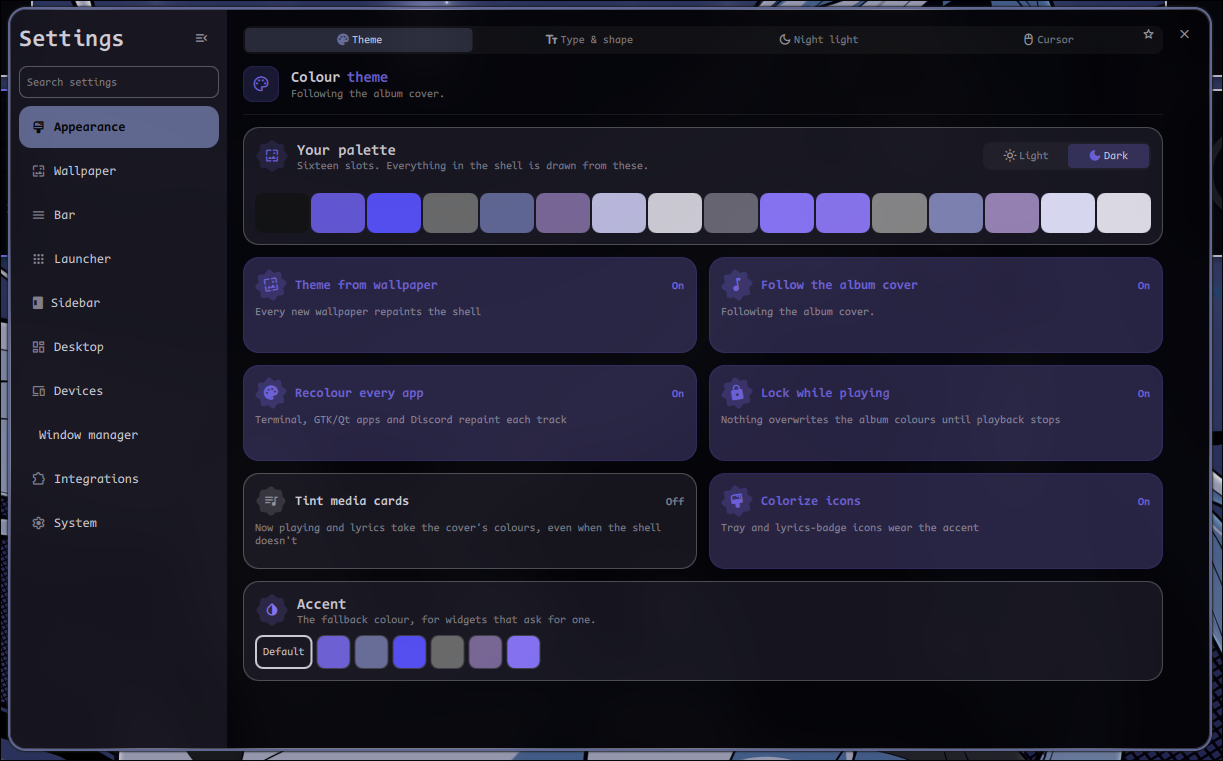
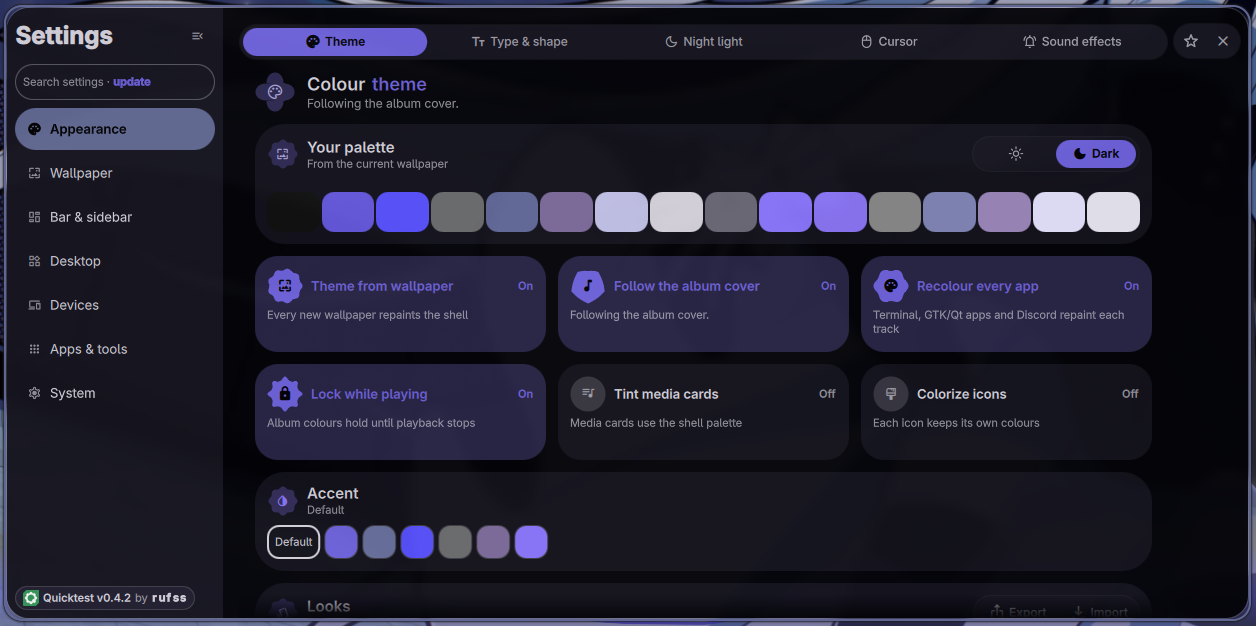
README: new sidebar section, retaken Settings and overview previews

diff --git a/README.md b/README.md
@@ -93,7 +93,9 @@ equalizer, updates, notifications, clipboard, timer, to‑do, system stats, and 
 
 ### The sidebar and dock
 
-<img align="right" width="44" src="assets/previews/SideBarPreview.png" alt="The sidebar">
+<table>
+<tr>
+<td valign="middle">
 
 The second edge, arranged like the bar. It can auto-hide and dodge windows.
 
@@ -105,7 +107,10 @@ The second edge, arranged like the bar. It can auto-hide and dodge windows.
 
 SUPER+D reveals it while hidden; SUPER+SHIFT+D hides or shows it entirely.
 
-<br clear="right">
+</td>
+<td width="40%"><img src="assets/previews/SidebarPanelPreview.png" alt="The sidebar with its System stats panel open"></td>
+</tr>
+</table>
 
 ### The launcher
 
